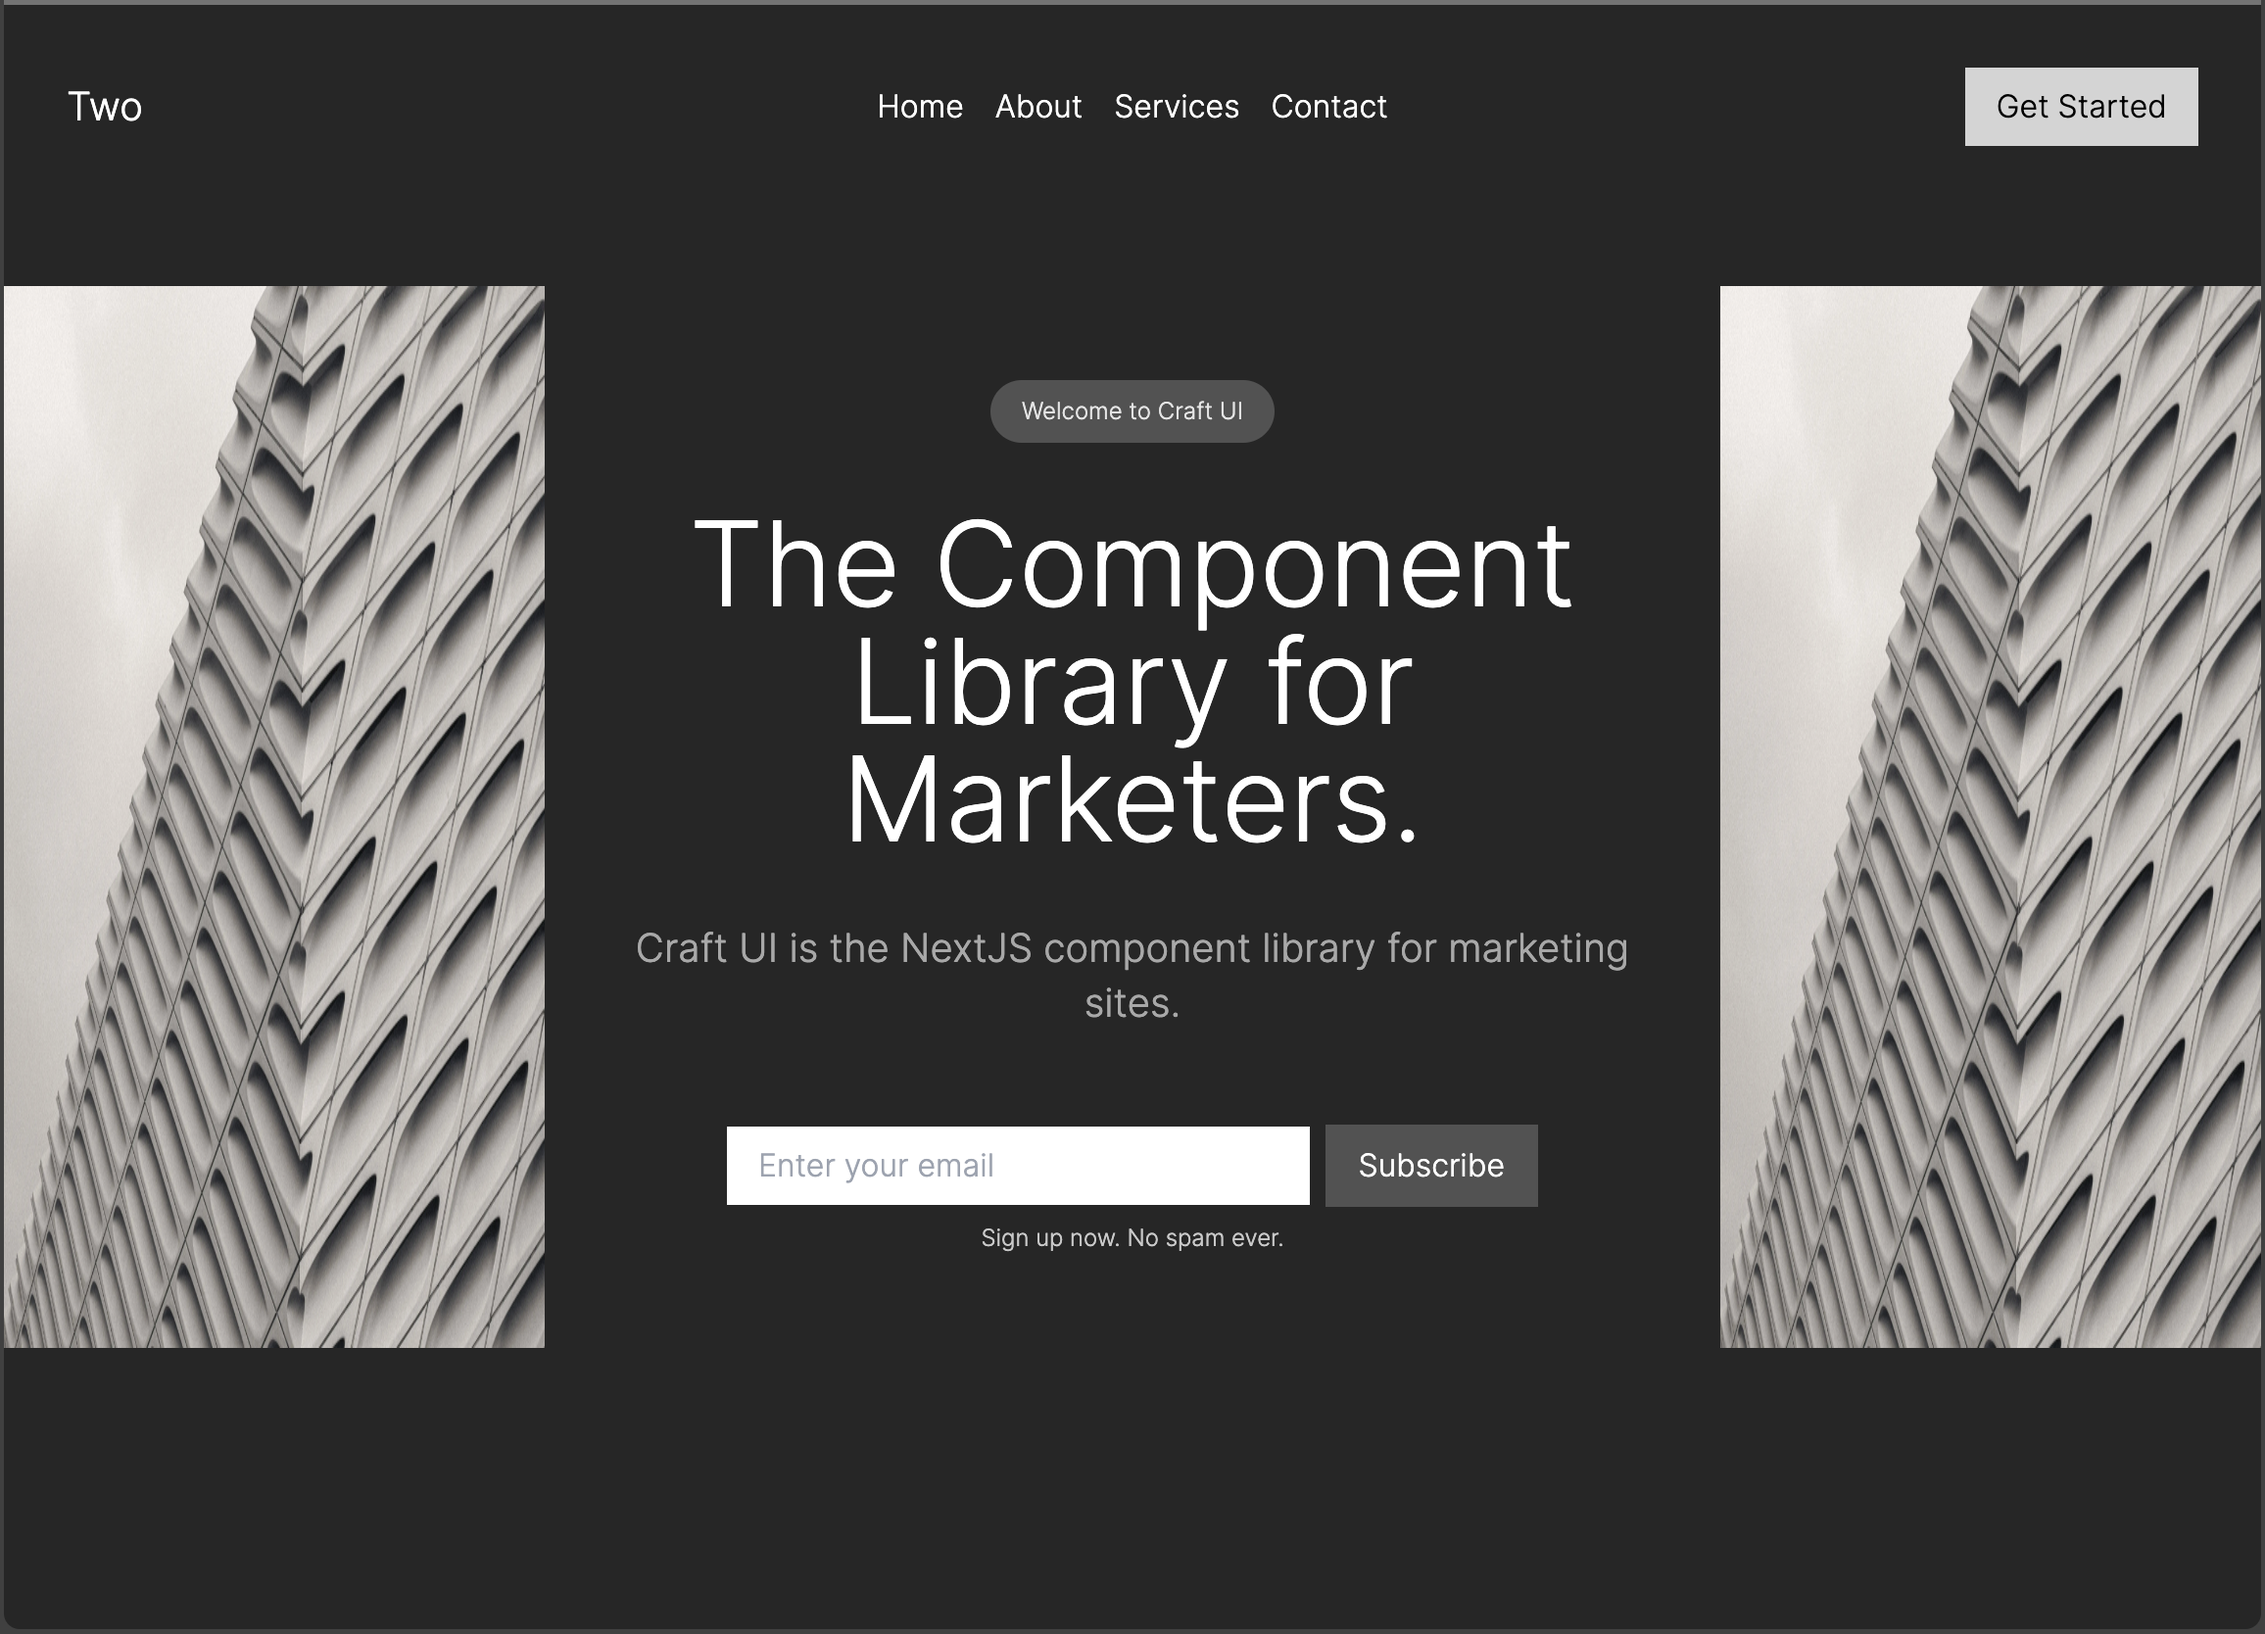
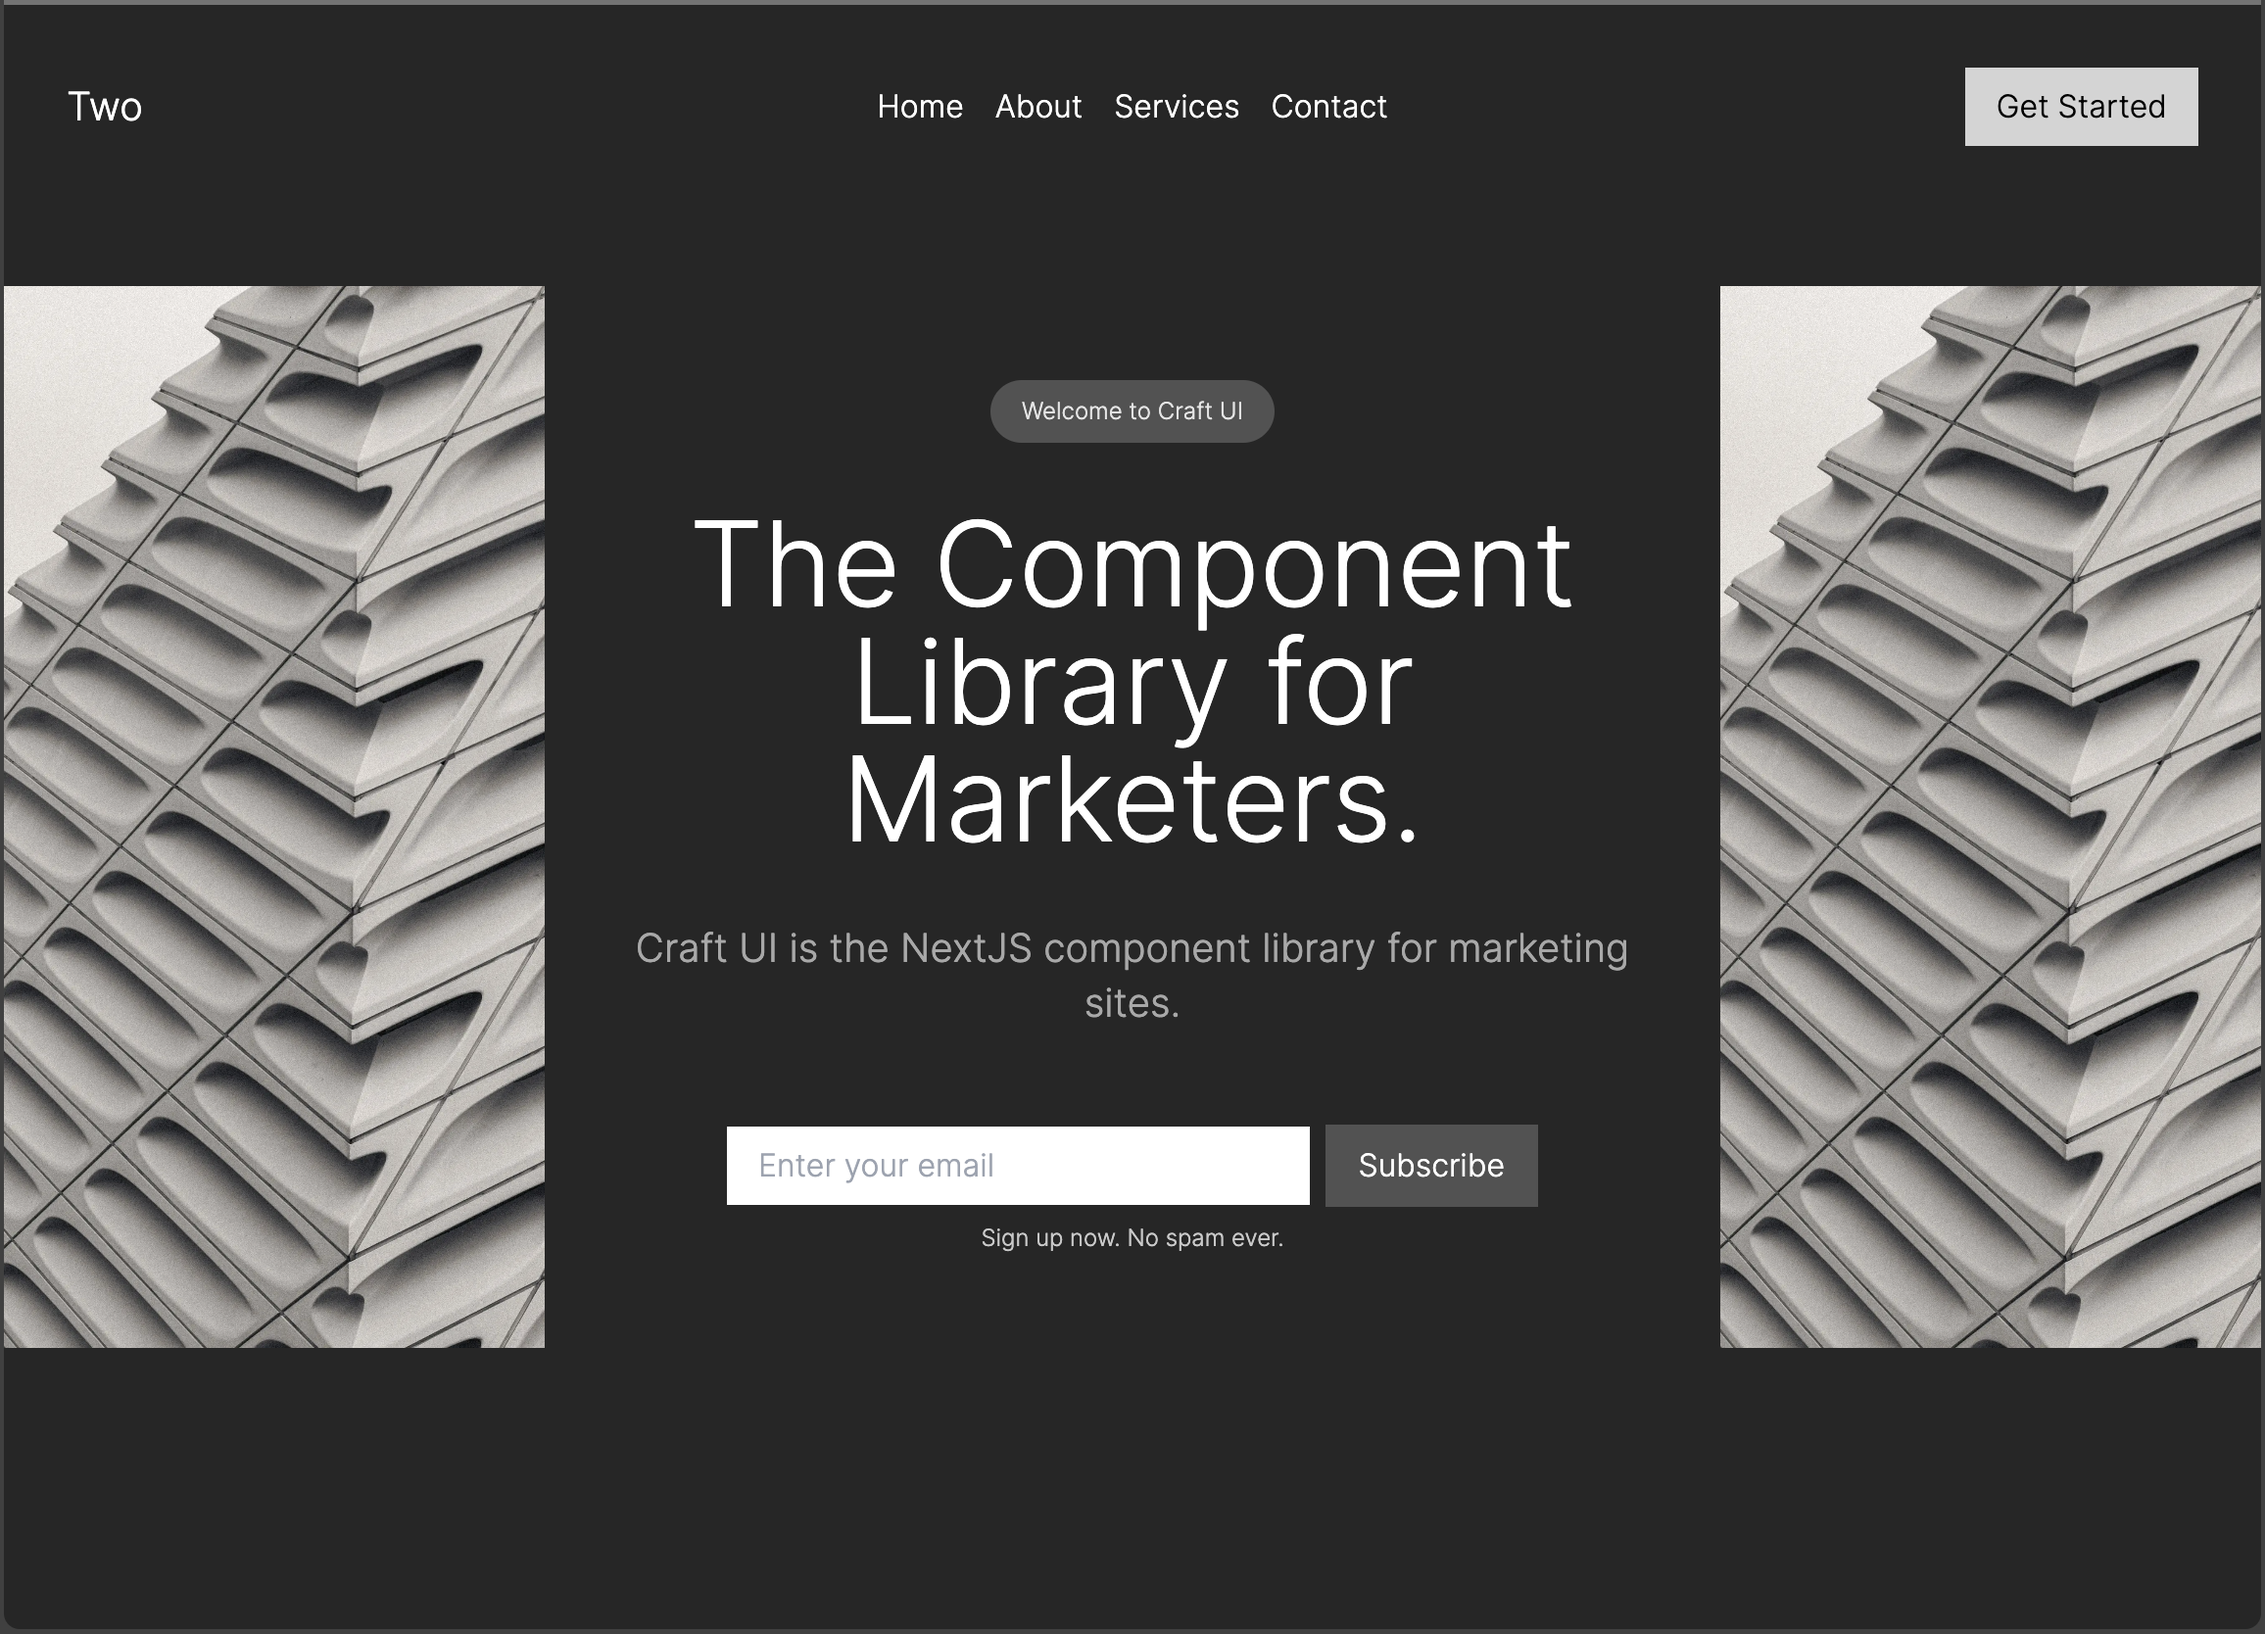
update 2

Changed region(s): [[0.7474, 0.1559, 1.0, 0.8417], [0.0, 0.1559, 0.2491, 0.8417]]

diff --git a/components/type/hero/two.tsx b/components/type/hero/two.tsx
@@ -46,10 +46,8 @@ const Two = () => {
         <div className="grid grid-cols-[1fr,2fr,1fr] items-center gap-6">
           <div className="overflow-hidden h-full">
             <Image
-              objectFit="cover"
-              objectPosition="center"
               src={Placeholder}
-              className="h-full"
+              className="h-full object-cover object-center"
               alt=""
               placeholder="blur"
             ></Image>
@@ -86,10 +84,8 @@ const Two = () => {
           </div>
           <div className="overflow-hidden h-full">
             <Image
-              objectFit="cover"
-              objectPosition="center"
               src={Placeholder}
-              className="h-full"
+              className="h-full object-cover object-center"
               alt=""
               placeholder="blur"
             ></Image>
